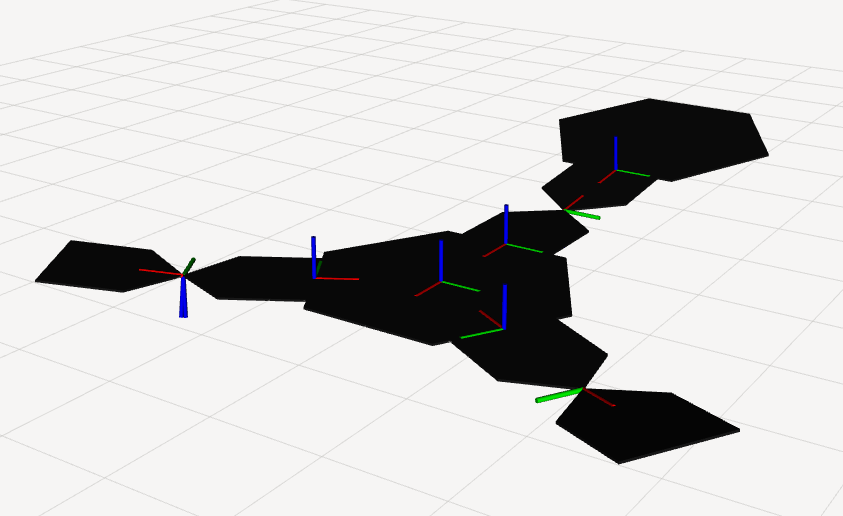
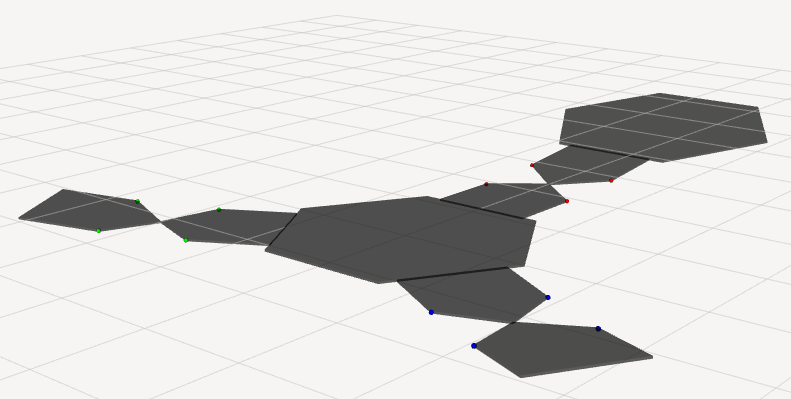
Added virtual links for closed chains and corner collision links

Changed region(s): [[0.0, 0.1805, 0.9709, 0.9624]]

diff --git a/src/generate_urdf.py b/src/generate_urdf.py
@@ -113,10 +113,17 @@ urdf = open("../urdf/"+urdf_file, "w")
 
 # URDF general info
 urdf.write('<?xml version="1.0" ?>\n')
-urdf.write('<robot name="Robogami" xmlns:xacro="http://www.ros.org/wiki/xacro">\n')
-urdf.write('\t<material name="Gray">\n')
-urdf.write('\t\t<color rgba="0.1 0.1 0.1 1.0"/>\n')
-urdf.write('\t</material>\n\n')
+urdf.write('<robot name="Robogami" xmlns:xacro="http://www.ros.org/wiki/xacro">\n\n')
+
+# Link materials genersting function (for visualization/debugging)
+def generate_urdf_material_color(name, rgbs):
+    r, g, b, a = rgbs
+
+    return "\n".join([
+        f'\t<material name="{name}">',
+        f'\t\t<color rgba="{r} {g} {b} {a}"/>',
+        '\t</material>\n'
+    ])
 
 # Link URDF string generating function
 def generate_link_urdf_str(link_name, mesh_name, offset=0):
@@ -177,34 +184,92 @@ def generate_spherical_joint_urdf_str(parent_link, child_link, extra_link1, extr
         '\t</joint>\n\n'
     ])
 
+# Corner collision links generating function
+def generate_corner_collision_links(link_name, parent_link, joint_origin, material):
+    return "\n".join([
+        '\t<link name="{}">'.format(link_name),
+        '\t\t<visual>',
+        '\t\t\t<geometry>',
+        '\t\t\t\t<sphere radius="0.001"/>',
+        '\t\t\t</geometry>\n',
+        '\t\t\t<material name="{}"/>'.format(material),
+        '\t\t</visual>',
+        '\t\t<collision>',
+        '\t\t\t<geometry>',
+        '\t\t\t\t<sphere radius="0.001"/>',
+        '\t\t\t</geometry>',
+        '\t\t</collision>',
+        '\t</link>',
+        '\n\t<joint name="{}" type="fixed">'.format(link_name+"_joint"),
+        '\t\t<parent link="{}"/>'.format(parent_link),
+        '\t\t<child link="{}"/>'.format(link_name),
+        '\t\t<origin rpy="0 0 0" xyz="{} {} {}"/>'.format(*joint_origin),
+        '\t</joint>\n'
+    ])
+
+# Materials
+urdf.write(generate_urdf_material_color("Gray", (0.1, 0.1, 0.1, 0.7)))
+urdf.write(generate_urdf_material_color("Red", (1, 0, 0, 1.0)))
+urdf.write(generate_urdf_material_color("Green", (0, 1, 0, 1.0)))
+urdf.write(generate_urdf_material_color("Blue", (0, 0, 1, 1.0)))
+
 # Base hexagon link
+urdf.write('\n\t<!-- Base hexagon link -->\n')
 urdf.write(generate_link_urdf_str("base", "base"))
 
 # Legs lower links
+urdf.write('\n\t<!-- Legs lower links -->\n')
 urdf.write(generate_link_urdf_str("leg1", "leg"))
 urdf.write(generate_link_urdf_str("leg2", "leg"))
 urdf.write(generate_link_urdf_str("leg3", "leg"))
 
 # Joints connecting leg lower links to the hexagon base link (actuated DoFs)
+urdf.write('\n\t<!-- Joints connecting leg lower links to the hexagon base link -->\n')
 urdf.write(generate_joint_urdf_str("l1", "base", "leg1", 0, 1.4, "0 1 0", [0, 0, 0], [-base_r, 0, 0]))
 urdf.write(generate_joint_urdf_str("l2", "base", "leg2", 0, 1.4, "0 1 0", [0, 0, radians(120.0)], [base_a/4.0*sqrt(3), -3.0*base_a/4.0, 0]))
 urdf.write(generate_joint_urdf_str("l3", "base", "leg3", 0, 1.4, "0 1 0", [0, 0, radians(-120.0)], [base_a/4.0*sqrt(3), 3.0*base_a/4.0, 0]))
 
 # Legs upper links
+urdf.write('\n\t<!-- Legs upper links -->\n')
 urdf.write(generate_link_urdf_str("leg1top", "leg", side_H))
 urdf.write(generate_link_urdf_str("leg2top", "leg", side_H))
 urdf.write(generate_link_urdf_str("leg3top", "leg", side_H))
 
 # Spherical joints connecting leg lower and upper links (unactuated DoFs)
+urdf.write('\n\t<!-- Spherical joints connecting leg lower and upper links -->\n')
 urdf.write(generate_spherical_joint_urdf_str("leg1", "leg1top", "l1RotX", "l1RotY", "x_l1rotx", "x_l1roty", "x_l1top"))
 urdf.write(generate_spherical_joint_urdf_str("leg2", "leg2top", "l2RotX", "l2RotY", "x_l2rotx", "x_l2roty", "x_l2top"))
 urdf.write(generate_spherical_joint_urdf_str("leg3", "leg3top", "l3RotX", "l3RotY", "x_l3rotx", "x_l3roty", "x_l3top"))
 
 # Top hexagon link
+urdf.write('\n\t<!-- Top hexagon link -->\n')
 urdf.write(generate_link_urdf_str("top", "base", -base_r))
 
 # Leg1 joint to top hexagon link
+urdf.write('\n\t<!-- Leg1 joint to top hexagon link -->\n')
 urdf.write(generate_joint_urdf_str("l1topBase", "leg1top", "top", 0, 1.56, "0 1 0", [0, radians(180.0), 0], [side_H, 0, 0]))
+
+# Two extra virtual links and associalted joints for defining closed chains
+urdf.write('\n\t<!-- Two extra virtual links and associalted joints for defining closed chains -->\n')
+urdf.write('\t<link name="leg2TopMove"/>\n\n')
+urdf.write('\t<link name="leg3TopMove"/>\n\n')
+urdf.write(generate_joint_urdf_str("l2TopMove", "leg2top", "leg2TopMove", 0, 1.56, "0 1 0", [0, 0, 0], [side_H, 0, 0]))
+urdf.write(generate_joint_urdf_str("l3TopMove", "leg3top", "leg3TopMove", 0, 1.56, "0 1 0", [0, 0, 0], [side_H, 0, 0]))
+
+# Corner collision links
+urdf.write('\n\t<!-- Corner collision shapes -->\n')
+urdf.write(generate_corner_collision_links("leg1lowerLeftConner", "leg1", [-side_b, -side_a/2.0, 0], "Red"))
+urdf.write(generate_corner_collision_links("leg1lowerRightConner", "leg1", [-side_b, side_a/2.0, 0], "Red"))
+urdf.write(generate_corner_collision_links("leg1topLeftConner", "leg1top", [side_h, -side_a/2.0, 0], "Red"))
+urdf.write(generate_corner_collision_links("leg1topRightConner", "leg1top", [side_h, side_a/2.0, 0], "Red"))
+urdf.write(generate_corner_collision_links("leg2lowerLeftConner", "leg2", [-side_b, -side_a/2.0, 0], "Green"))
+urdf.write(generate_corner_collision_links("leg2lowerRightConner", "leg2", [-side_b, side_a/2.0, 0], "Green"))
+urdf.write(generate_corner_collision_links("leg2topLeftConner", "leg2top", [side_h, -side_a/2.0, 0], "Green"))
+urdf.write(generate_corner_collision_links("leg2topRightConner", "leg2top", [side_h, side_a/2.0, 0], "Green"))
+urdf.write(generate_corner_collision_links("leg3lowerLeftConner", "leg3", [-side_b, -side_a/2.0, 0], "Blue"))
+urdf.write(generate_corner_collision_links("leg3lowerRightConner", "leg3", [-side_b, side_a/2.0, 0], "Blue"))
+urdf.write(generate_corner_collision_links("leg3topLeftConner", "leg3top", [side_h, -side_a/2.0, 0], "Blue"))
+urdf.write(generate_corner_collision_links("leg3topRightConner", "leg3top", [side_h, side_a/2.0, 0], "Blue"))
 
 # Done!
 urdf.write('\n</robot>')

diff --git a/README.md b/README.md
@@ -15,7 +15,6 @@ Once mc_rtc is installed, clone this repository into a folder called `catkin_dat
 
 ```
 git clone git@github.com:anastasiabolotnikova/robogami_description.git
-
 ```
 
 ### Build
